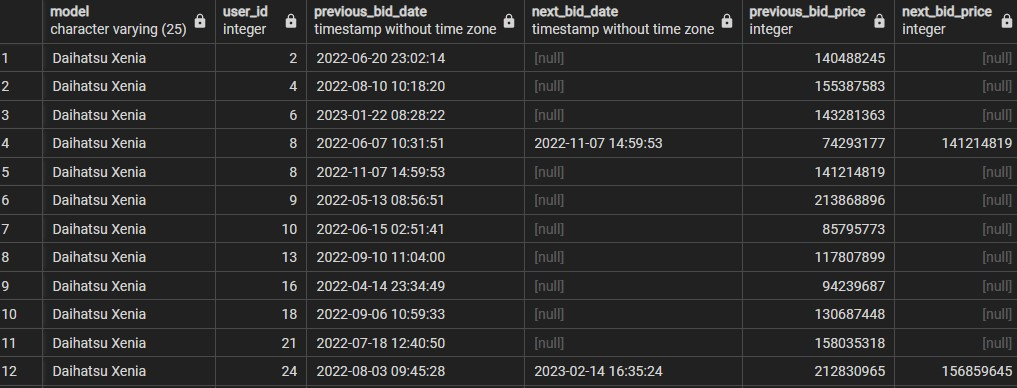
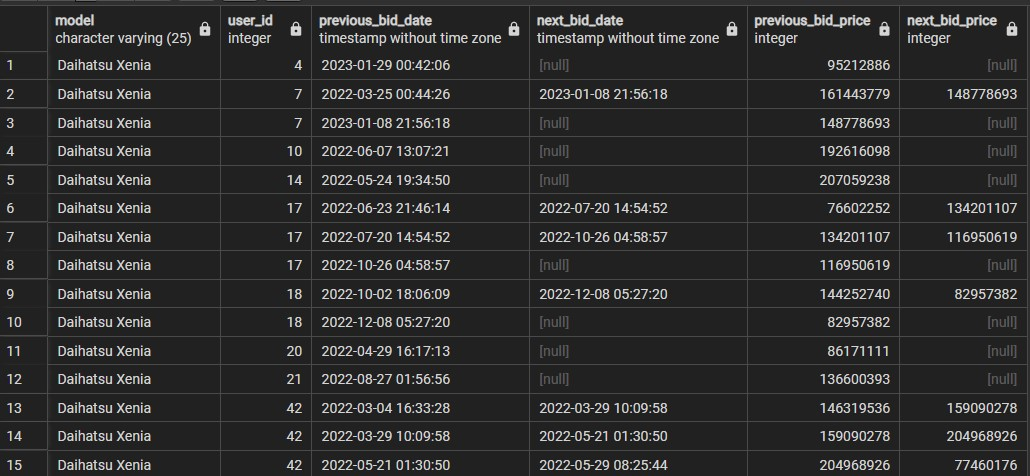
fix image, sql code, python code, and readme.md

diff --git a/dummy_data/input_data_to_database.py b/dummy_data/input_data_to_database.py
@@ -6,11 +6,11 @@ from psycopg2 import Error
 try:
     connection = psycopg2.connect(
         #change the value according to your pgAdmin settings
-        user="postgres",
-        password="GaNbarou23",
-        host="localhost",
-        port="5432",
-        database="finalproject_pacmann"
+        user="user",
+        password="password",
+        host="host",
+        port="port",
+        database="database_name"
     )
 
     cursor = connection.cursor()

diff --git a/readme.md b/readme.md
@@ -55,8 +55,9 @@ CREATE TABLE cities (
 CREATE TABLE users (
 	user_id SERIAL PRIMARY KEY,
 	name VARCHAR(50) NOT NULL,
-	phone_number VARCHAR(15) NOT NULL UNIQUE,
-	city_id INT NOT NULL REFERENCES cities(city_id)  
+	phone_number VARCHAR(20) NOT NULL UNIQUE,
+	city_id INT NOT NULL REFERENCES cities(city_id),
+	role VARCHAR(6) NOT NULL CHECK (role in ('Seller', 'Buyer'))  
 );
 ```
 #### Create Table Ads
@@ -65,11 +66,38 @@ CREATE TABLE ads (
 	ad_id SERIAL PRIMARY KEY,
 	user_id INT NOT NULL REFERENCES users(user_id),
 	car_id INT NOT NULL REFERENCES cars(car_id),
-	description TEXT NOT NULL,
 	title VARCHAR(50) NOT NULL,
+	description TEXT NOT NULL,
+	color VARCHAR(15) NOT NULL,
+	transmission VARCHAR(15) NOT NULL CHECK (transmission in ('Automatic', 'Manual')),
+	mileage INT NOT NULL,
 	negotiable BOOLEAN NOT NULL,
-	post_date TIMESTAMP(0) NOT NULL	
+	post_date TIMESTAMP(0) NOT NULL
 );
+```
+#### Create trigger function and trigger object for checking role of user_id in ads_table
+```sql
+--create trigger function for ensuring that user_id in ads table is "Seller"
+CREATE FUNCTION validate_seller_role()
+RETURNS TRIGGER AS $$
+BEGIN
+    IF EXISTS (
+        SELECT 1
+        FROM users
+        WHERE user_id = NEW.user_id AND role = 'Seller'
+    ) THEN
+        RETURN NEW;
+    ELSE
+        RAISE EXCEPTION 'User must have role "Seller"';
+    END IF;
+END;
+$$ LANGUAGE plpgsql;
+
+--create trigger object for validate_seller_role()
+CREATE TRIGGER ads_seller_role_trigger
+BEFORE INSERT OR UPDATE ON ads
+FOR EACH ROW
+EXECUTE FUNCTION validate_seller_role();
 ```
 #### Create Table Bids
 ```sql
@@ -80,6 +108,54 @@ CREATE TABLE bids (
 	bid_price INT NOT NULL CHECK (bid_price > 0),
 	bid_date TIMESTAMP(0) NOT NULL
 );
+```
+#### Create trigger function and trigger object for checking role of user_id in bids_table
+```sql
+--create trigger function for ensuring that user_id in bids table is "Buyer"
+CREATE FUNCTION validate_buyer_role()
+RETURNS TRIGGER AS $$
+BEGIN
+    IF EXISTS (
+        SELECT 1
+        FROM users
+        WHERE user_id = NEW.user_id AND role = 'Buyer'
+    ) THEN
+        RETURN NEW;
+    ELSE
+        RAISE EXCEPTION 'User must have role "Buyer"';
+    END IF;
+END;
+$$ LANGUAGE plpgsql;
+
+--create trigger object for validate_buyer_role()
+CREATE TRIGGER bids_buyer_role_trigger
+BEFORE INSERT OR UPDATE ON bids
+FOR EACH ROW
+EXECUTE FUNCTION validate_buyer_role();
+```
+#### Create trigger function and trigger object for checking negotiable status of ad_id in bids_table
+```sql
+--create trigger function for ensuring that ad_id in bids table has value "true" in ads.negotiable field
+CREATE FUNCTION validate_negotiable_ad()
+RETURNS TRIGGER AS $$
+BEGIN
+    IF EXISTS (
+        SELECT 1
+        FROM ads
+        WHERE ad_id = NEW.ad_id AND negotiable = true
+    ) THEN
+        RETURN NEW;
+    ELSE
+        RAISE EXCEPTION 'Car price must be negotiable';
+    END IF;
+END;
+$$ LANGUAGE plpgsql;
+
+--create trigger object for validate_negotiable_ad()
+CREATE TRIGGER bids_negotiable_ad_trigger
+BEFORE INSERT OR UPDATE ON bids
+FOR EACH ROW
+EXECUTE FUNCTION validate_negotiable_ad();
 ```
 ## ER Diagram
 ![used car ecommerce ERD](img/ERD-dark_mode.jpg)
@@ -145,21 +221,22 @@ def generate_dummy_user(n):
 
     for i in range(1,n+1):
         user_data.append({
-            'user_id': i,
-            'name': fake.name(),
-            'phone_number': fake.phone_number(),
-            'city_id': random.choice(city_ids)
+            "user_id": i,
+            "name": fake.name(),
+            "phone_number": fake.phone_number(),
+            "city_id": random.choice(city_ids),
+            "role" :random.choice(["Buyer", "Seller"])
         })
     
     return user_data
 
 #define column for user table
-user_cols = ['user_id', 'name', 'phone_number', 'city_id']
+user_cols = ['user_id', 'name', 'phone_number', 'city_id', 'role']
 #generate rows for user table
 user_rows = generate_dummy_user(100)
 
 #save to user.csv
-save_to_csv('user.csv', user_cols, user_rows)
+save_to_csv('csv/users.csv', user_cols, user_rows)
 ```
 ### Code for generating dummy data for ads table
 ```python
@@ -171,13 +248,13 @@ from csv_helper import *
 fake = Faker('id_ID')
 
 #open user.csv to get user id data
-with open('user.csv', mode='r') as file:
+with open('csv/users.csv', mode='r') as file:
     csv_reader = csv.DictReader(file)
 
-    user_ids = [row["user_id"] for row in csv_reader]
+    user_ids = [row["user_id"] for row in csv_reader if row["role"] == "Seller"]
 
 #open car_product.csv to get car data
-with open('car_product.csv', mode='r') as file:
+with open('csv/car_product.csv', mode='r') as file:
     csv_reader = csv.DictReader(file)
 
     cars_data = []
@@ -222,22 +299,22 @@ def generate_dummy_ads(n, cars_data, users_data):
             "user_id" : user_id,
             "car_id" : car_id,
             "title" : title,
-            "color" : color,
-            "mileage_km" : mileage,
-            "transmission" : transmission,
-            "negotiable" : negotiable,
             "description" : desc,
+            "color": color,
+            "transmission" : transmission,
+            "mileage" : mileage,
+            "negotiable" : negotiable,
             "post_date" : post_date,
         })
 
     return ads_data
 
 #define columns for ads table
-ad_cols = ["ad_id", "user_id", "car_id", "title", "color", "mileage", "transmission", "negotiable", "description", "post_date"]
+ad_cols = ["ad_id", "user_id", "car_id", "title", "description", "color", "transmission", "mileage", "negotiable",  "post_date"]
 #generate rows for ads table
 ad_rows = generate_dummy_ads(200, cars_data, user_ids)
 #save to ads.csv
-save_to_csv("ads.csv", ad_cols, ad_rows)
+save_to_csv("csv/ads.csv", ad_cols, ad_rows)
 ```
 ### Code for generating dummy data for bids table
 ```python
@@ -248,13 +325,13 @@ from csv_helper import *
 
 
 #open user.csv to get user id data
-with open('user.csv', mode='r') as file:
+with open('csv/users.csv', mode='r') as file:
     csv_reader = csv.DictReader(file)
 
-    user_id = [row["user_id"] for row in csv_reader]
+    list_user_id = [row["user_id"] for row in csv_reader if row["role"] == "Buyer"]
 
 #open ads.csv to get ads data. Only retrieve needed information for further processing
-with open('ads.csv', mode='r') as file:
+with open('csv/ads.csv', mode='r') as file:
     csv_reader = csv.DictReader(file)
 
     ads_data = []
@@ -262,7 +339,6 @@ with open('ads.csv', mode='r') as file:
         ads_data.append(
             {
                 "ad_id" : row["ad_id"],
-                "user_id" : row["user_id"],
                 "car_id" : row["car_id"],
                 "negotiable" : row["negotiable"],
                 "post_date" : row["post_date"]
@@ -270,7 +346,7 @@ with open('ads.csv', mode='r') as file:
         )
 
 #open car_product.csv to get car data. Only retrieve needed information for further processing
-with open('car_product.csv', mode='r') as file:
+with open('csv/car_product.csv', mode='r') as file:
     csv_reader = csv.DictReader(file)
 
     cars_data = []
@@ -280,25 +356,6 @@ with open('car_product.csv', mode='r') as file:
             "price" : row["price"]
         })
 
-def generate_bid_user_id(ad_id, users, ads):
-    """
-    A function for generating user id that not posting the ad
-    
-    Args
-    ad_id (str)
-    users(list) :list of user id
-    ads(list): list of ads data
-
-    Return
-    user id (string) that not posting the ad
-    """
-    ad_poster_id = ""
-    for item in ads:
-        if item["ad_id"] == ad_id:
-            ad_poster_id = item["user_id"]
-            break
-    
-    return random.choice([item for item in users if item != ad_poster_id ])
 
 def generate_price_bid(ad_id, ads, cars_data):
     """
@@ -366,7 +423,7 @@ def generate_dummy_bids(n, users, ads):
     for i in range(1, n+1):
         bid_id = i
         ad_id = random.choice(negotiable_cars)["ad_id"]
-        user_id = generate_bid_user_id(ad_id, users, negotiable_cars)
+        user_id = random.choice(users)
         bid_price = generate_price_bid(ad_id, negotiable_cars, cars_data)
         bid_date = generate_bids_date(negotiable_cars, ad_id)
         bids_data.append({
@@ -382,9 +439,9 @@ def generate_dummy_bids(n, users, ads):
 #define columns for bids table
 bid_cols = ["bid_id", "user_id", "ad_id", "bid_price", "bid_date"]
 #generate rows for bids table
-bid_rows = generate_dummy_bids(400, user_id, ads_data)
+bid_rows = generate_dummy_bids(400, list_user_id, ads_data)
 #save to bids.csv
-save_to_csv("bids.csv", bid_cols, bid_rows)
+save_to_csv("csv/bids.csv", bid_cols, bid_rows)
 ```
 ### Code for import csv data to PostgreSQL Database
 ```python
@@ -400,7 +457,7 @@ try:
         password="password",
         host="host",
         port="port",
-        database="database"
+        database="database_name"
     )
 
     cursor = connection.cursor()
@@ -426,8 +483,9 @@ def insert_user_dummy(filename):
             name = row[1]
             phone = row[2]
             city_id = row[3]
+            role = row[4]
 
-            insert_query = f"INSERT INTO users (name, phone_number, city_id) VALUES ('{name}', '{phone}', '{city_id}');"
+            insert_query = f"INSERT INTO users (name, phone_number, city_id, role) VALUES ('{name}', '{phone}', '{city_id}', '{role}');"
 
             cursor.execute(insert_query)
 
@@ -450,14 +508,14 @@ def insert_ads_dummy(filename):
             user_id = row[1]
             car_id = row[2]
             title = row[3]
-            color = row[4]
-            mileage =  row[5]
-            transmisiion = row[6] 
-            negotiable = row[7]
-            description = row[8]
+            description = row[4]
+            color = row[5]
+            transmission = row[6]
+            mileage = row[7]
+            negotiable = row[8]
             post_date = row[9]
 
-            insert_query = f"INSERT INTO ads (user_id, car_id, title, color, mileage, transmission, negotiable, description, post_date) VALUES ('{user_id}', '{car_id}', '{title}', '{color}', '{mileage}', '{transmisiion}', '{negotiable}', '{description}', '{post_date}');"
+            insert_query = f"INSERT INTO ads (user_id, car_id, title, negotiable, description, post_date, color, transmission, mileage) VALUES ('{user_id}', '{car_id}', '{title}', '{negotiable}', '{description}', '{post_date}', '{color}', '{transmission}', {mileage});"
 
             cursor.execute(insert_query)
 
@@ -482,15 +540,15 @@ def insert_bids_dummy(filename):
             bid_price = row[3]
             bid_date = row[4]
 
-            insert_query = f"INSERT INTO bids (user_id, ad_id, bid_price, bid_date) VALUES ('{user_id}', '{ad_id}', '{bid_price}',  '{bid_date}');"
+            insert_query = f"INSERT INTO bids (user_id, ad_id, bid_price, bid_date) VALUES ('{user_id}', '{ad_id}', '{bid_price}', '{bid_date}');"
 
             cursor.execute(insert_query)
 
     connection.commit()
 
-insert_user_dummy("user.csv")
-insert_ads_dummy("ads.csv")
-insert_bids_dummy("bids.csv")
+insert_user_dummy("csv/users.csv")
+insert_ads_dummy("csv/ads.csv")
+insert_bids_dummy("csv/bids.csv")
 ```
 ## Transactional Query
 Following are example of transactional queries you can do on this database.
@@ -511,11 +569,11 @@ Output:
 ### Inserting one bid data
 ```sql
 INSERT INTO bids (user_id, ad_id, bid_price, bid_date) 
-VALUES (30, 10, 150000000, current_timestamp);
+VALUES (19, 86, 90000000, current_timestamp);
 ```
 Output:  
 ![inserting one bid data](img/add_one_bid.jpg)
-###  Viewing all cars from one user with name Ajimin Prasetya and ordering the result from most recent posted car
+###  Viewing all cars from one user with name Ibrani Usada and ordering the result from most recent posted car
 ```sql
 SELECT 
 	c.car_id, 
@@ -529,7 +587,7 @@ INNER JOIN ads a
 USING(car_id)
 INNER JOIN users u
 USING(user_id)
-WHERE u.name = 'Ajimin Prasetya'
+WHERE u.name = 'Ibrani Usada'
 ORDER BY a.post_date DESC;
 ```
 Output:  
